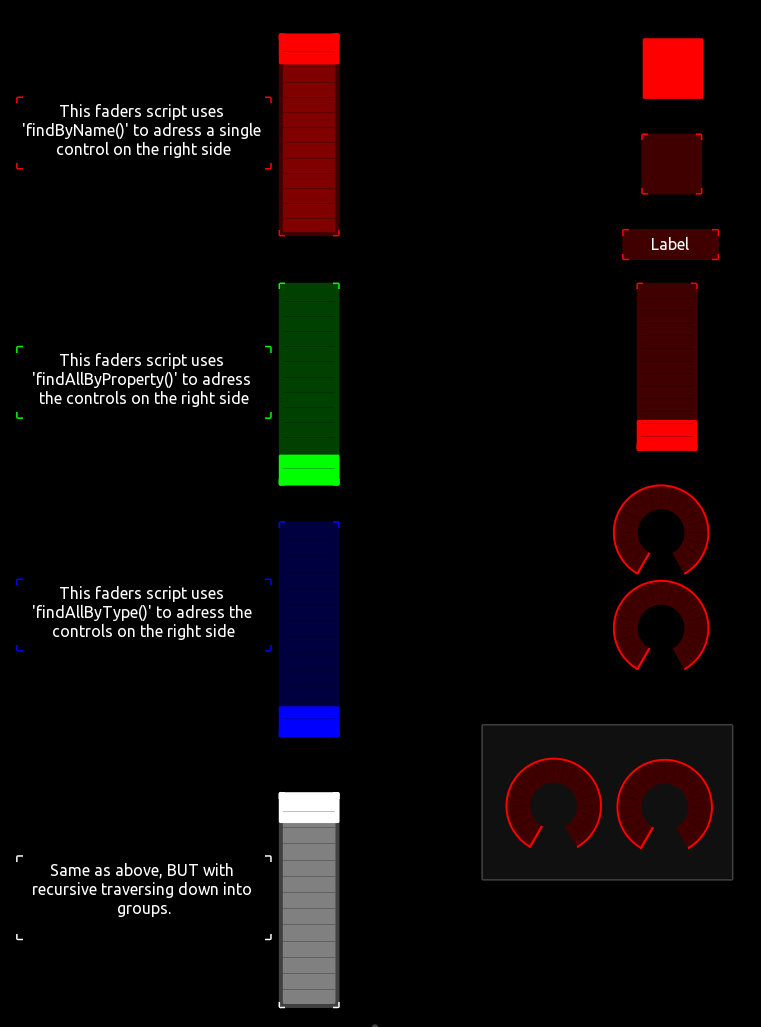
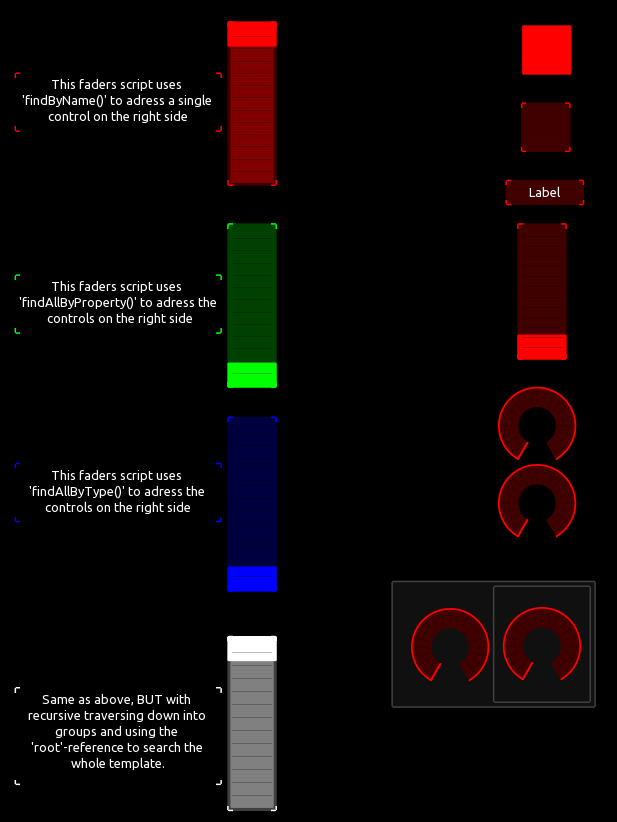
created readme and included root recursive search

diff --git a/examples/grid_label/README.md b/examples/grid_label/README.md
@@ -1,26 +1,15 @@
-## Labeling a GRID by script
+## ![find() and findAll() to create references to single or multiple objects](find&findAll.tosc)
 
 ### ![Grid_label.tosc :](Grid_label.tosc) 
 
-This example shows how to use Lua to iterate over the children of a group (in this case a GRID), and how to index and access their properties, or values.
+This example shows how to use use the different 'find' functions.
 
-![gridlabel](pics/preview_1.gif) 
+![find](pics/preview.gif) 
 
+The 'findAll' returns a list of all found elements that can be iterated over.
 
-The Button to trigger the labeling notifies the grid with a given name, that the user can set in the script.
-
-![button](pics/script_button.png)
-
-
-The grid then interates over all of its childs and prepends the name to the index number, thus creating numbered labels.
-
-![gridscript](pics/script_grid.png)
+![button](pics/script.png)
 
 
-### ![SIMPLE_set_GRID_label_texts-3.tosc :](SIMPLE_set_GRID_label_texts-3.tosc) 
-
-A similar functionality, but done by directly adressing the lables and without any iteration.
-
-![gridlabel](pics/preview_2.gif) ![script_direct](pics/script_direct.png) 
-
+find
 

diff --git a/examples/find&findAll/README.md b/examples/find&findAll/README.md
@@ -1,0 +1,15 @@
+## ![find() and findAll() to create references to single or multiple objects](find&findAll.tosc)
+
+### ![Grid_label.tosc :](Grid_label.tosc) 
+
+This example shows how to use use the different 'find' functions.
+
+![find](pics/preview.gif) 
+
+The 'findAll' returns a list of all found elements that can be iterated over.
+
+![script1](pics/script.png)
+
+'find' and 'findAll' accept an optional boolean parameter, that will make the search descending recursively into all child elements from where it was called. Combining the recursive with the 'root' reference will allow for a comfortable and complete template wide search from any point in your template.
+
+![script2](pics/script2.png)
